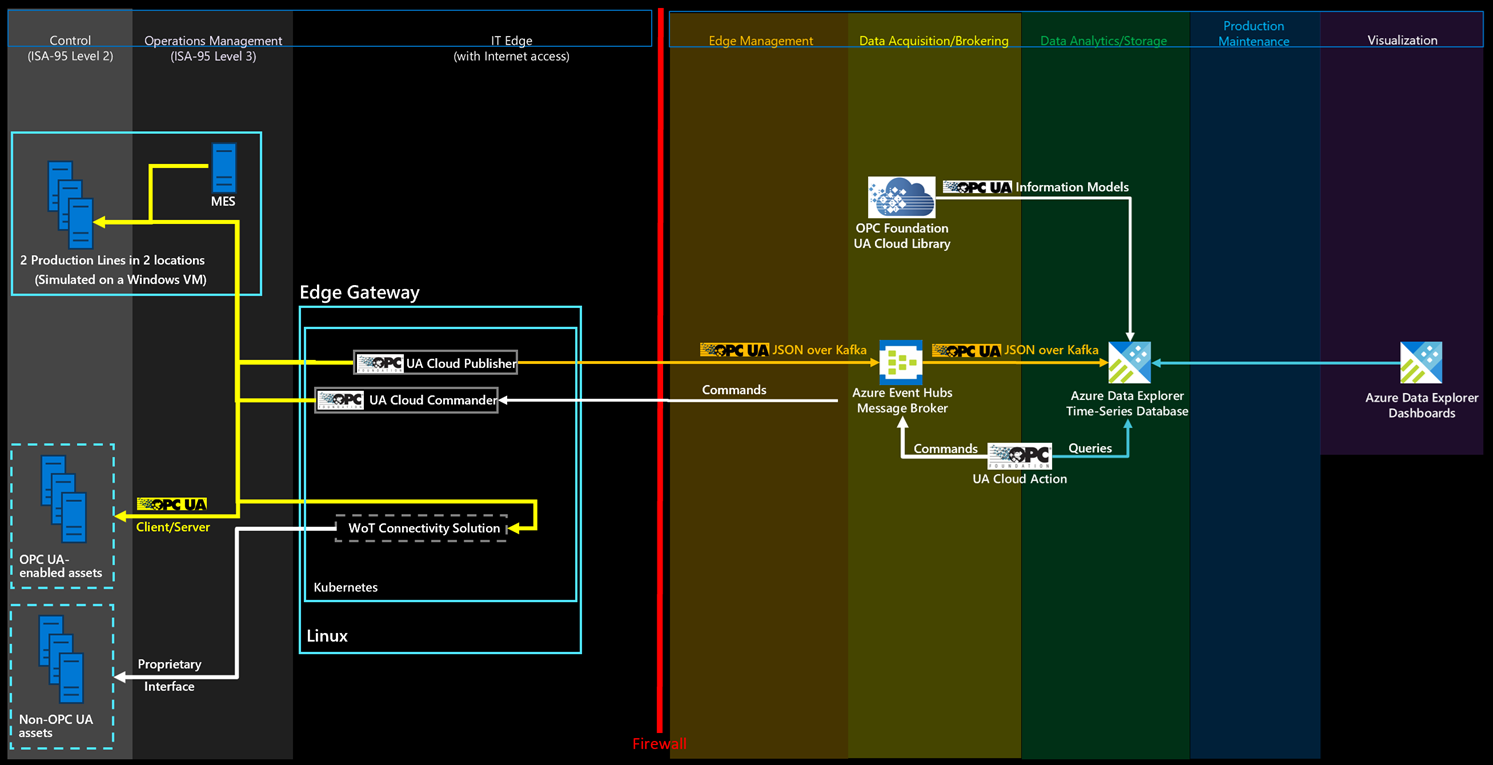
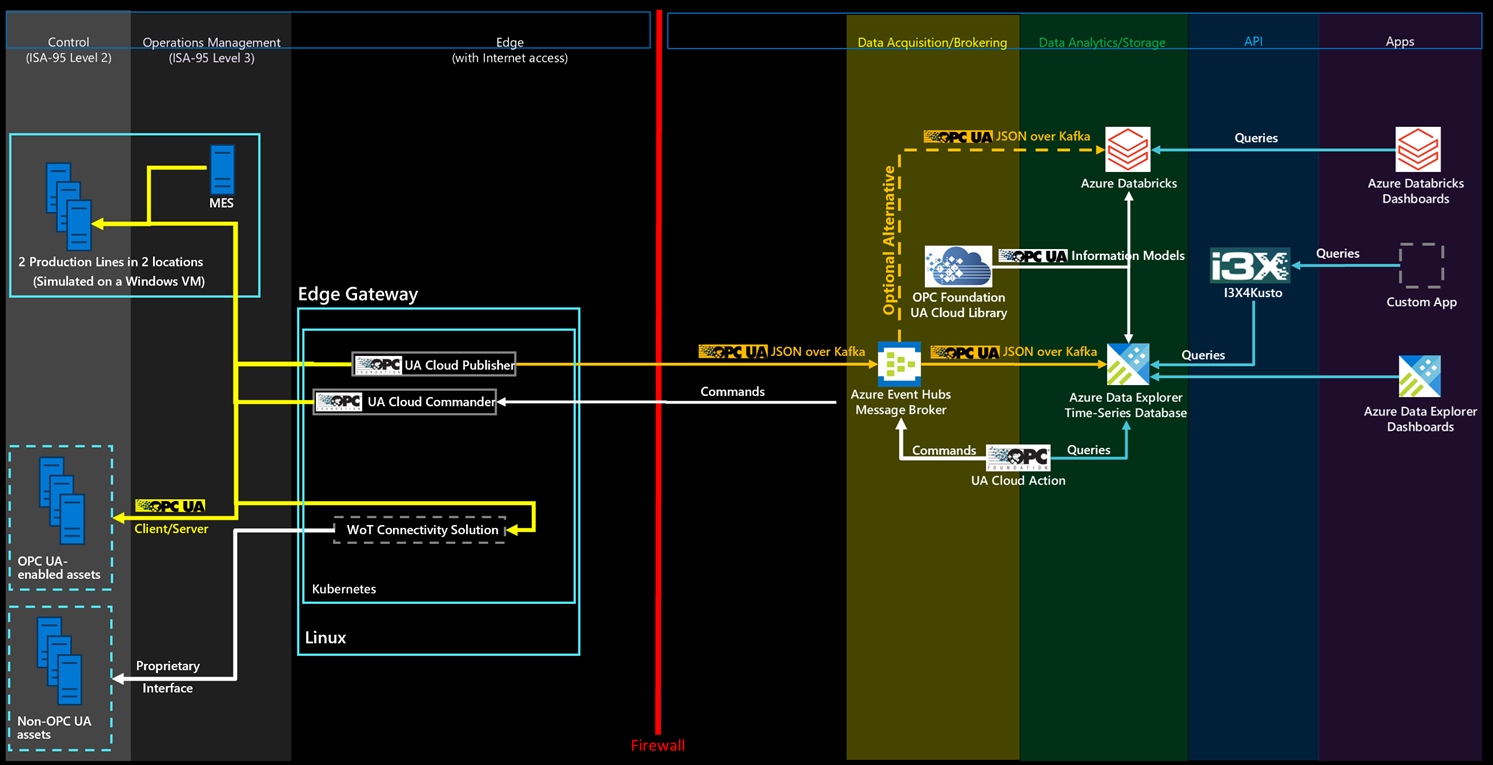
Added I3X4Kusto API and fixed Databricks dashboards.

Changed region(s): [[0.0, 0.0, 1.0, 1.0], [0.9243, 0.3908, 0.9859, 0.4209]]

diff --git a/Tools/DatabricksQueries/opcua_setup.py b/Tools/DatabricksQueries/opcua_setup.py
@@ -22,9 +22,13 @@
 
 dbutils.widgets.text("eventHubsConnectionString", "")
 dbutils.widgets.text("checkpointRoot", "dbfs:/opcua/checkpoints")
+dbutils.widgets.text("catalog", "main")
+dbutils.widgets.text("schema", "ontologies")
 
 connection_string = dbutils.widgets.get("eventHubsConnectionString").strip()
 checkpoint_root = dbutils.widgets.get("checkpointRoot").strip().rstrip("/")
+catalog = dbutils.widgets.get("catalog").strip() or "main"
+schema = dbutils.widgets.get("schema").strip() or "ontologies"
 
 if not connection_string:
     raise ValueError(
@@ -32,9 +36,12 @@ if not connection_string:
         "RootManageSharedAccessKey connection string of the <resourcesName>-EventHubs namespace."
     )
 
-# The reference solution uses the default Hive metastore database for the OPC UA tables.
-spark.sql("USE CATALOG hive_metastore")
-spark.sql("USE DATABASE default")
+# Store the OPC UA tables in Unity Catalog. The legacy hive_metastore catalog is disabled on
+# UC-only workspaces, so create the target schema (if needed) and make it the session default;
+# the unqualified table names below then resolve to `{catalog}`.`{schema}`.
+spark.sql(f"CREATE SCHEMA IF NOT EXISTS `{catalog}`.`{schema}`")
+spark.sql(f"USE CATALOG `{catalog}`")
+spark.sql(f"USE SCHEMA `{schema}`")
 
 # COMMAND ----------
 

diff --git a/databricks.md b/databricks.md
@@ -16,7 +16,9 @@ With the option enabled, the template additionally provisions:
 - the `databricks` consumer group on each of the `data` and `metadata` event hubs,
 - a deployment script (running as the solution's managed identity) that imports the [`opcua_setup`](Tools/DatabricksQueries/opcua_setup.py) notebook and the [sample dashboard](Tools/DatabricksQueries/dashboard-ontologies.lvdash.json), creates a serverless SQL warehouse, publishes the dashboard, and starts a **continuous job** that runs the notebook.
 
-The notebook creates the Delta tables, ingests both event hubs, expands the OPC UA PubSub messages, and creates the `opcua_metadata_lkv` view together with the `CalculateOEEForStation`/`CalculateOEEForLine` functions used by the dashboard. Once the deployment finishes, open the published **Ontologies** dashboard in your workspace to explore condition monitoring, OEE, energy, production and diagnostics tiles for the Munich and Seattle production lines - the Databricks equivalent of the [ADX dashboard](Tools/ADXQueries/dashboard-ontologies.json). See [Use the sample dashboard](#use-the-sample-dashboard) for details.
+The notebook creates the Delta tables, ingests both event hubs, expands the OPC UA PubSub messages, and creates the `opcua_metadata_lkv` view together with the `CalculateOEEForStation`/`CalculateOEEForLine` functions used by the dashboard.
+Everything is created in a Unity Catalog schema (`main.ontologies` by default; override with the `UC_CATALOG`/`UC_SCHEMA` deployment settings), since the legacy `hive_metastore` catalog is disabled on Unity Catalog-only workspaces.
+Once the deployment finishes, open the published **Ontologies** dashboard in your workspace to explore condition monitoring, OEE, energy, production and diagnostics tiles for the Munich and Seattle production lines - the Databricks equivalent of the [ADX dashboard](Tools/ADXQueries/dashboard-ontologies.json). See [Use the sample dashboard](#use-the-sample-dashboard) for details.
 
 - **Azure IoT Operations (AIO)** emits its CloudEvents identity (`subject`, `time`, etc.) as `ce-`-prefixed transport headers ([binary content mode](https://github.com/cloudevents/spec/blob/v1.0.2/cloudevents/bindings/http-protocol-binding.md#31-binary-content-mode)) rather than inside the body - see the `cloudEventAttributes` setting on the [Kafka / Event Hubs](https://learn.microsoft.com/azure/iot-operations/connect-to-cloud/howto-configure-kafka-endpoint#advanced-settings) and [MQTT](https://learn.microsoft.com/azure/iot-operations/connect-to-cloud/howto-configure-mqtt-endpoint#advanced-settings) data flow endpoints. Add an AIO data flow [`map` transform](https://learn.microsoft.com/azure/iot-operations/connect-to-cloud/howto-dataflow-graphs-map) (see also [Create data flows -> Transformation](https://learn.microsoft.com/azure/iot-operations/connect-to-cloud/howto-create-dataflow#transformation)) that copies the dataset identity and timestamp into the body in the same wrapper shape the expansion expects (`DataSetWriterId`, `Timestamp`, and a `Payload`/`MetaData` object). The same body then flows through the identical logic on ADX, Fabric, and Databricks.
 
@@ -25,6 +27,10 @@ The notebook creates the Delta tables, ingests both event hubs, expands the OPC 
 With your data flowing into Delta Lake, you can query it using SQL or PySpark. Here is an example query that joins metadata and telemetry — equivalent to the ADX/Fabric queries. Because the telemetry `Subject` is the numeric `DataSetWriterId`, the station and production line are matched on the metadata `DataSetName` (built from the OPC UA server's ApplicationUri and NodeId) and then joined to the telemetry on `Subject`. (With Azure IoT Operations, the station and line usually aren't encoded in `DataSetName`, so point these filters at whatever your asset or dataset naming carries instead.)
 
 ```sql
+-- The notebook creates these objects in the `main.ontologies` Unity Catalog schema by default.
+USE CATALOG main;
+USE SCHEMA ontologies;
+
 -- Find the status of all assembly stations in Munich in the last hour
 SELECT
     m.DataSetName,
@@ -51,4 +57,4 @@ If you used the [automated deployment](#automated-deployment-recommended), the d
 1. In your workspace, click **Workspace**, navigate to a folder, then choose **Import** and upload `dashboard-ontologies.lvdash.json` (or use the [Workspace Import API](https://learn.microsoft.com/azure/databricks/dashboards/tutorials/workspace-dashboard-api) with `"format": "AUTO"` and a `.lvdash.json` path).
 2. Open the dashboard, attach it to a running **SQL warehouse**, and click **Publish**.
 
-The dashboard queries the `opcua_telemetry`, `opcua_metadata_lkv`, `CalculateOEEForStation` and `CalculateOEEForLine` objects created in the steps above (in the `hive_metastore.default` schema). Each tile filters on a fixed time window; adjust the `INTERVAL` in the dataset queries, or add a date-range dashboard parameter, to display a specific shift. The OEE cards use an ideal cycle time of 6000 ms (the default Munich line cycle time); change it in the OEE dataset queries if your simulation uses a different value.
+The dashboard queries the `opcua_telemetry`, `opcua_metadata_lkv`, `CalculateOEEForStation` and `CalculateOEEForLine` objects created by the notebook, in the `main.ontologies` Unity Catalog schema by default (the dataset queries are fully qualified with that catalog and schema; the automated deployment rewrites them if you override `UC_CATALOG`/`UC_SCHEMA`). Each tile filters on a fixed time window; adjust the `INTERVAL` in the dataset queries, or add a date-range dashboard parameter, to display a specific shift. The OEE cards use an ideal cycle time of 6000 ms (the default Munich line cycle time); change it in the OEE dataset queries if your simulation uses a different value.